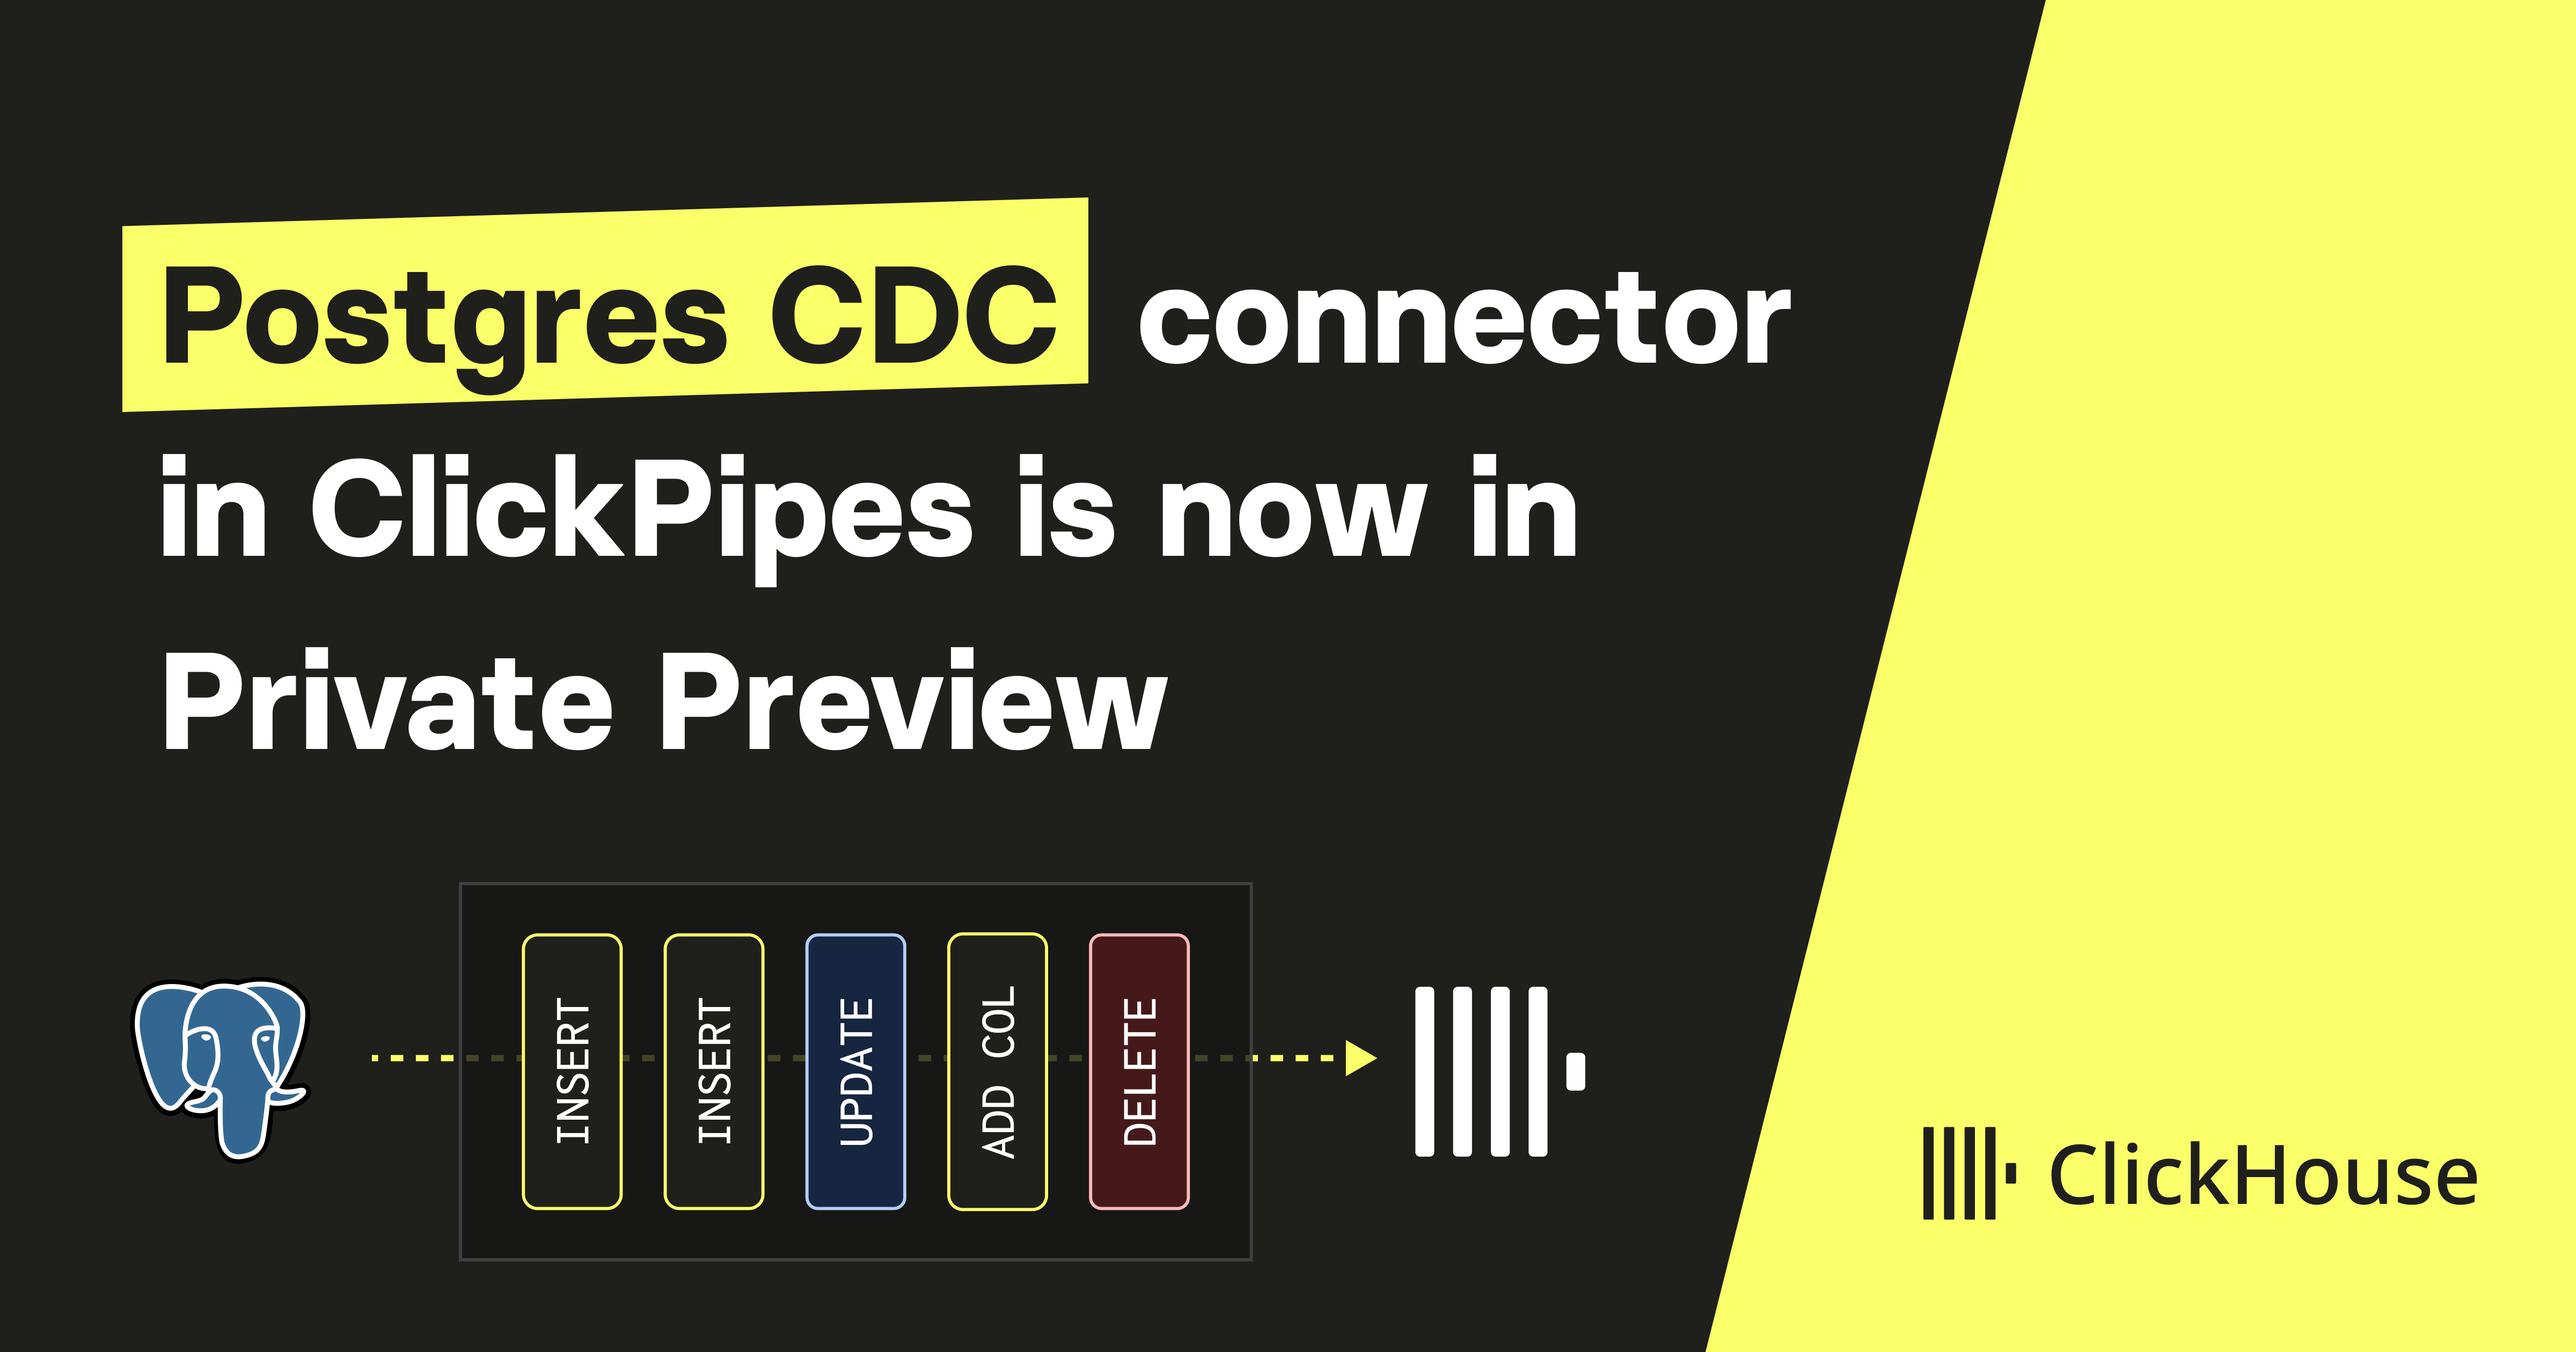
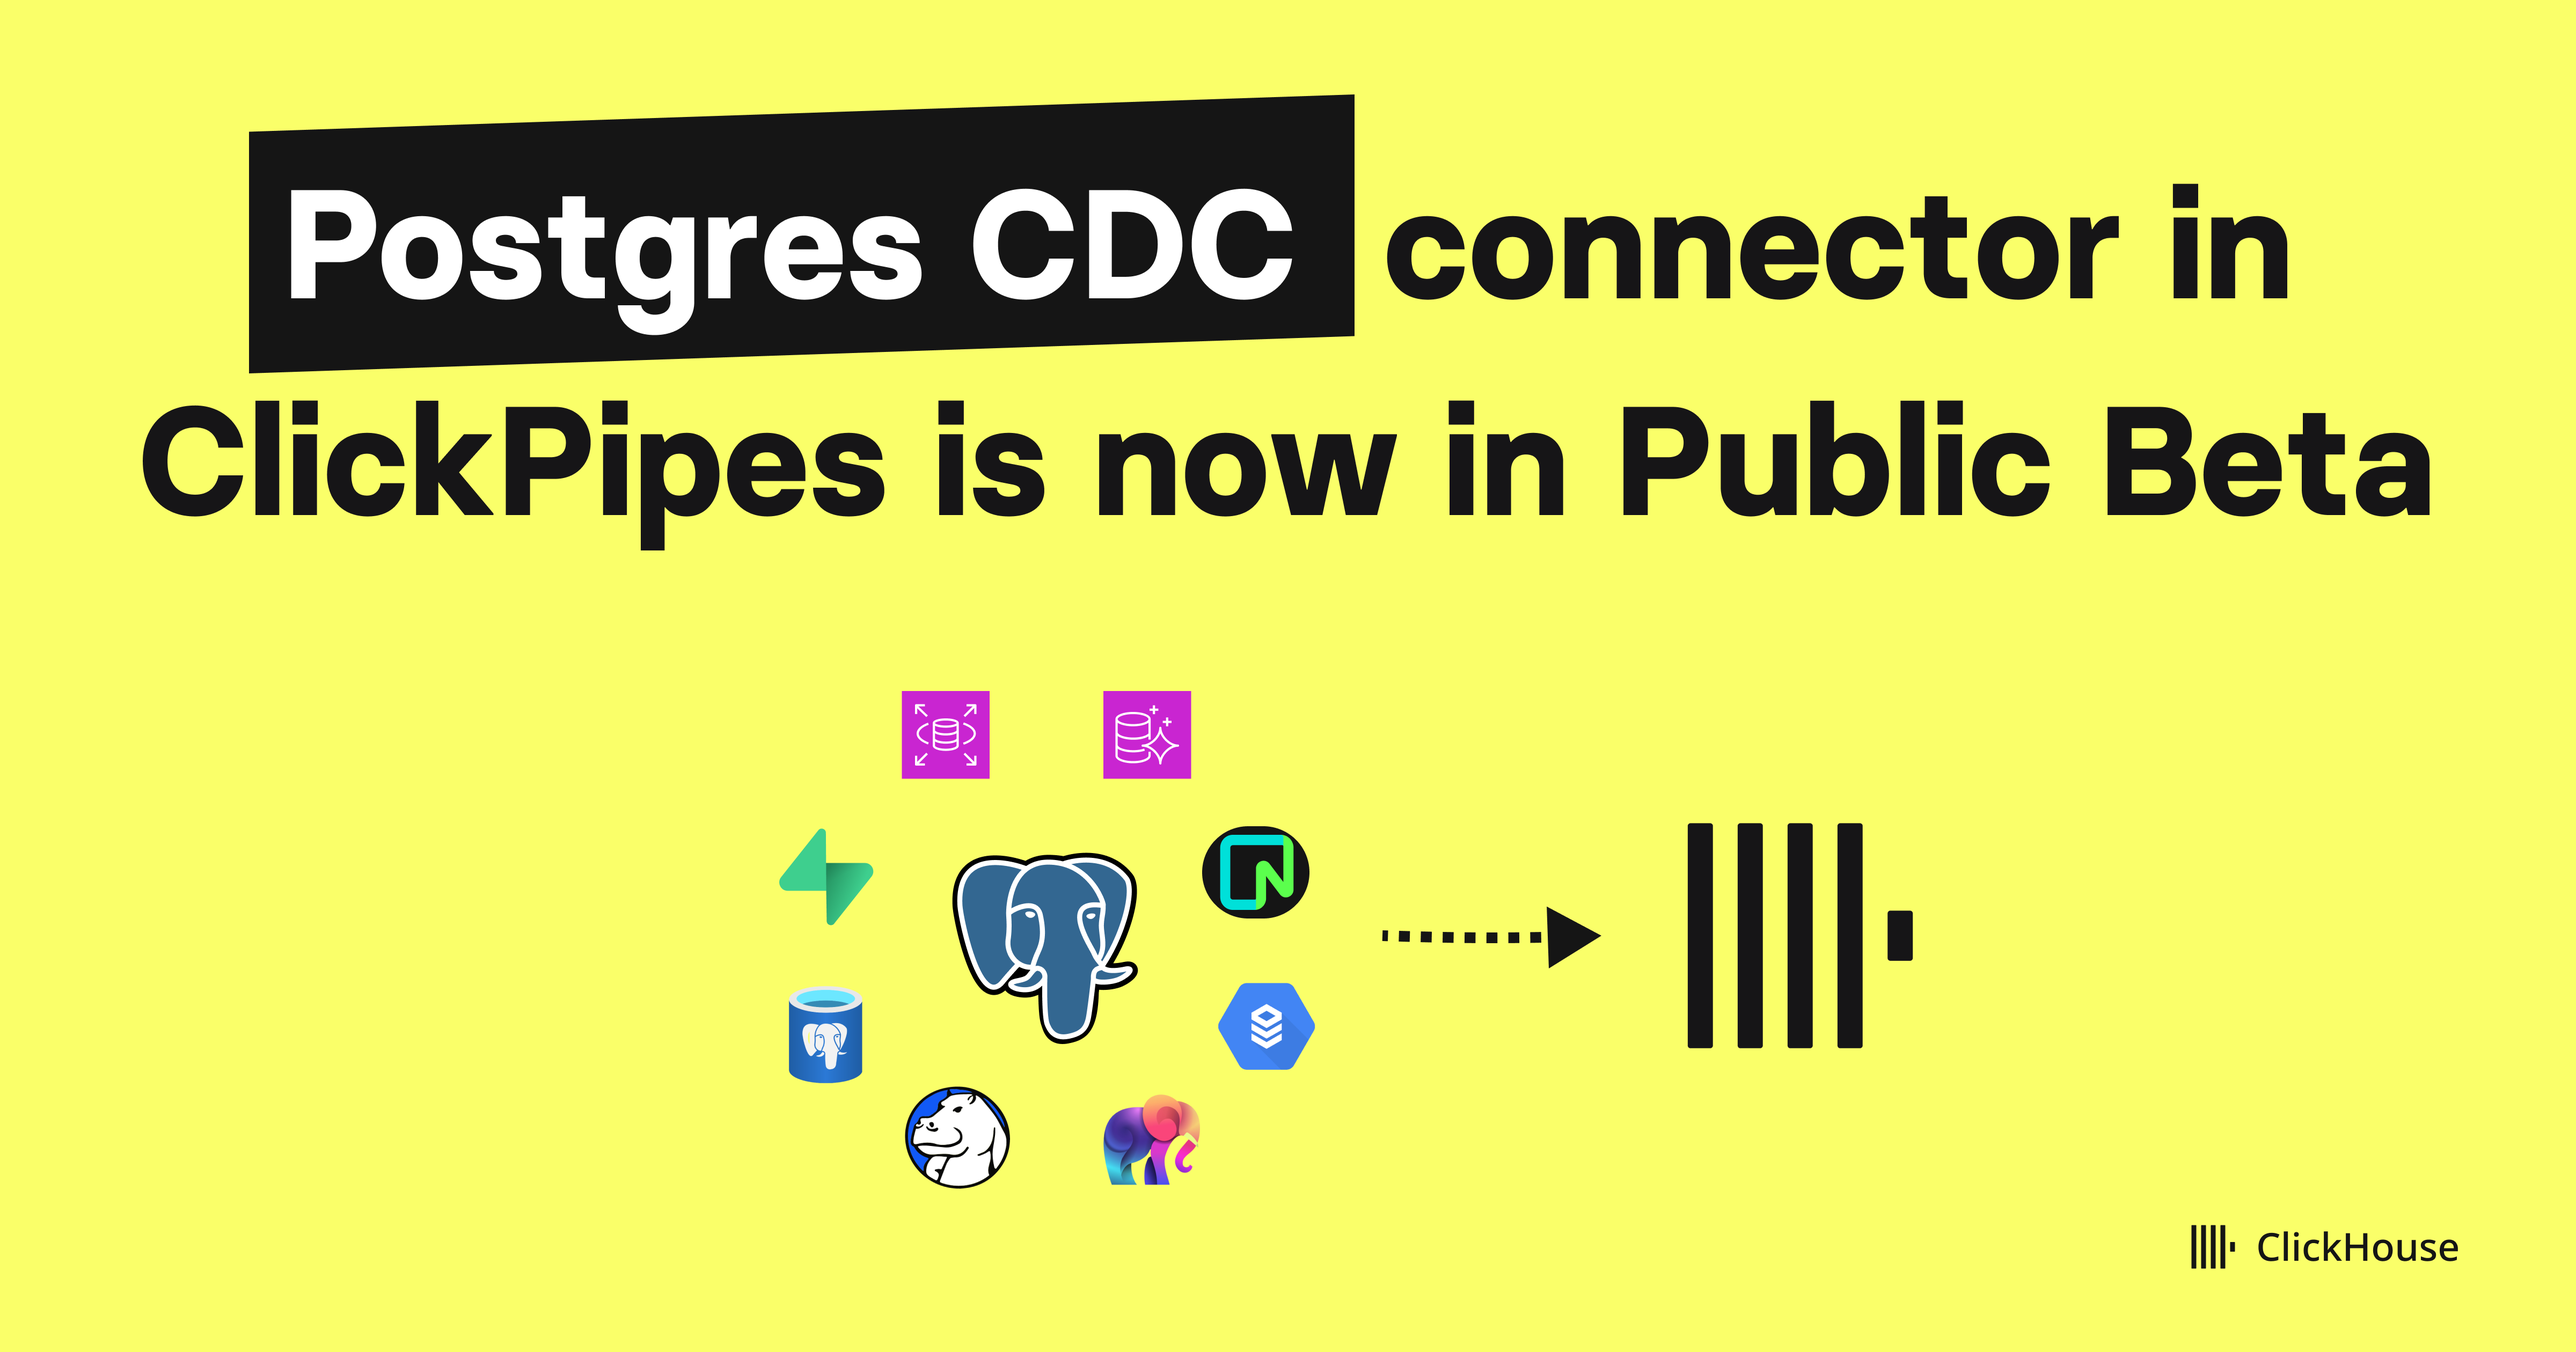
docs: update public preview (#2652)

diff --git a/README.md b/README.md
@@ -56,7 +56,7 @@ PeerDB is an ETL/ELT tool built for PostgreSQL. We implement multiple Postgres n
 
 ### Now available natively in ClickHouse Cloud (Private Preview)
 
-PeerDB is now available natively in ClickHouse Cloud (Private Preview). Learn more about it [here](https://clickhouse.com/cloud/clickpipes/postgres-cdc-connector).
+PeerDB is now available natively in ClickHouse Cloud (Public Preview). Learn more about it [here](https://clickhouse.com/cloud/clickpipes/postgres-cdc-connector).
 
 <a href="https://clickhouse.com/cloud/clickpipes/postgres-cdc-connector">
 <img src="images/in-clickpipes.png" width="512" />
